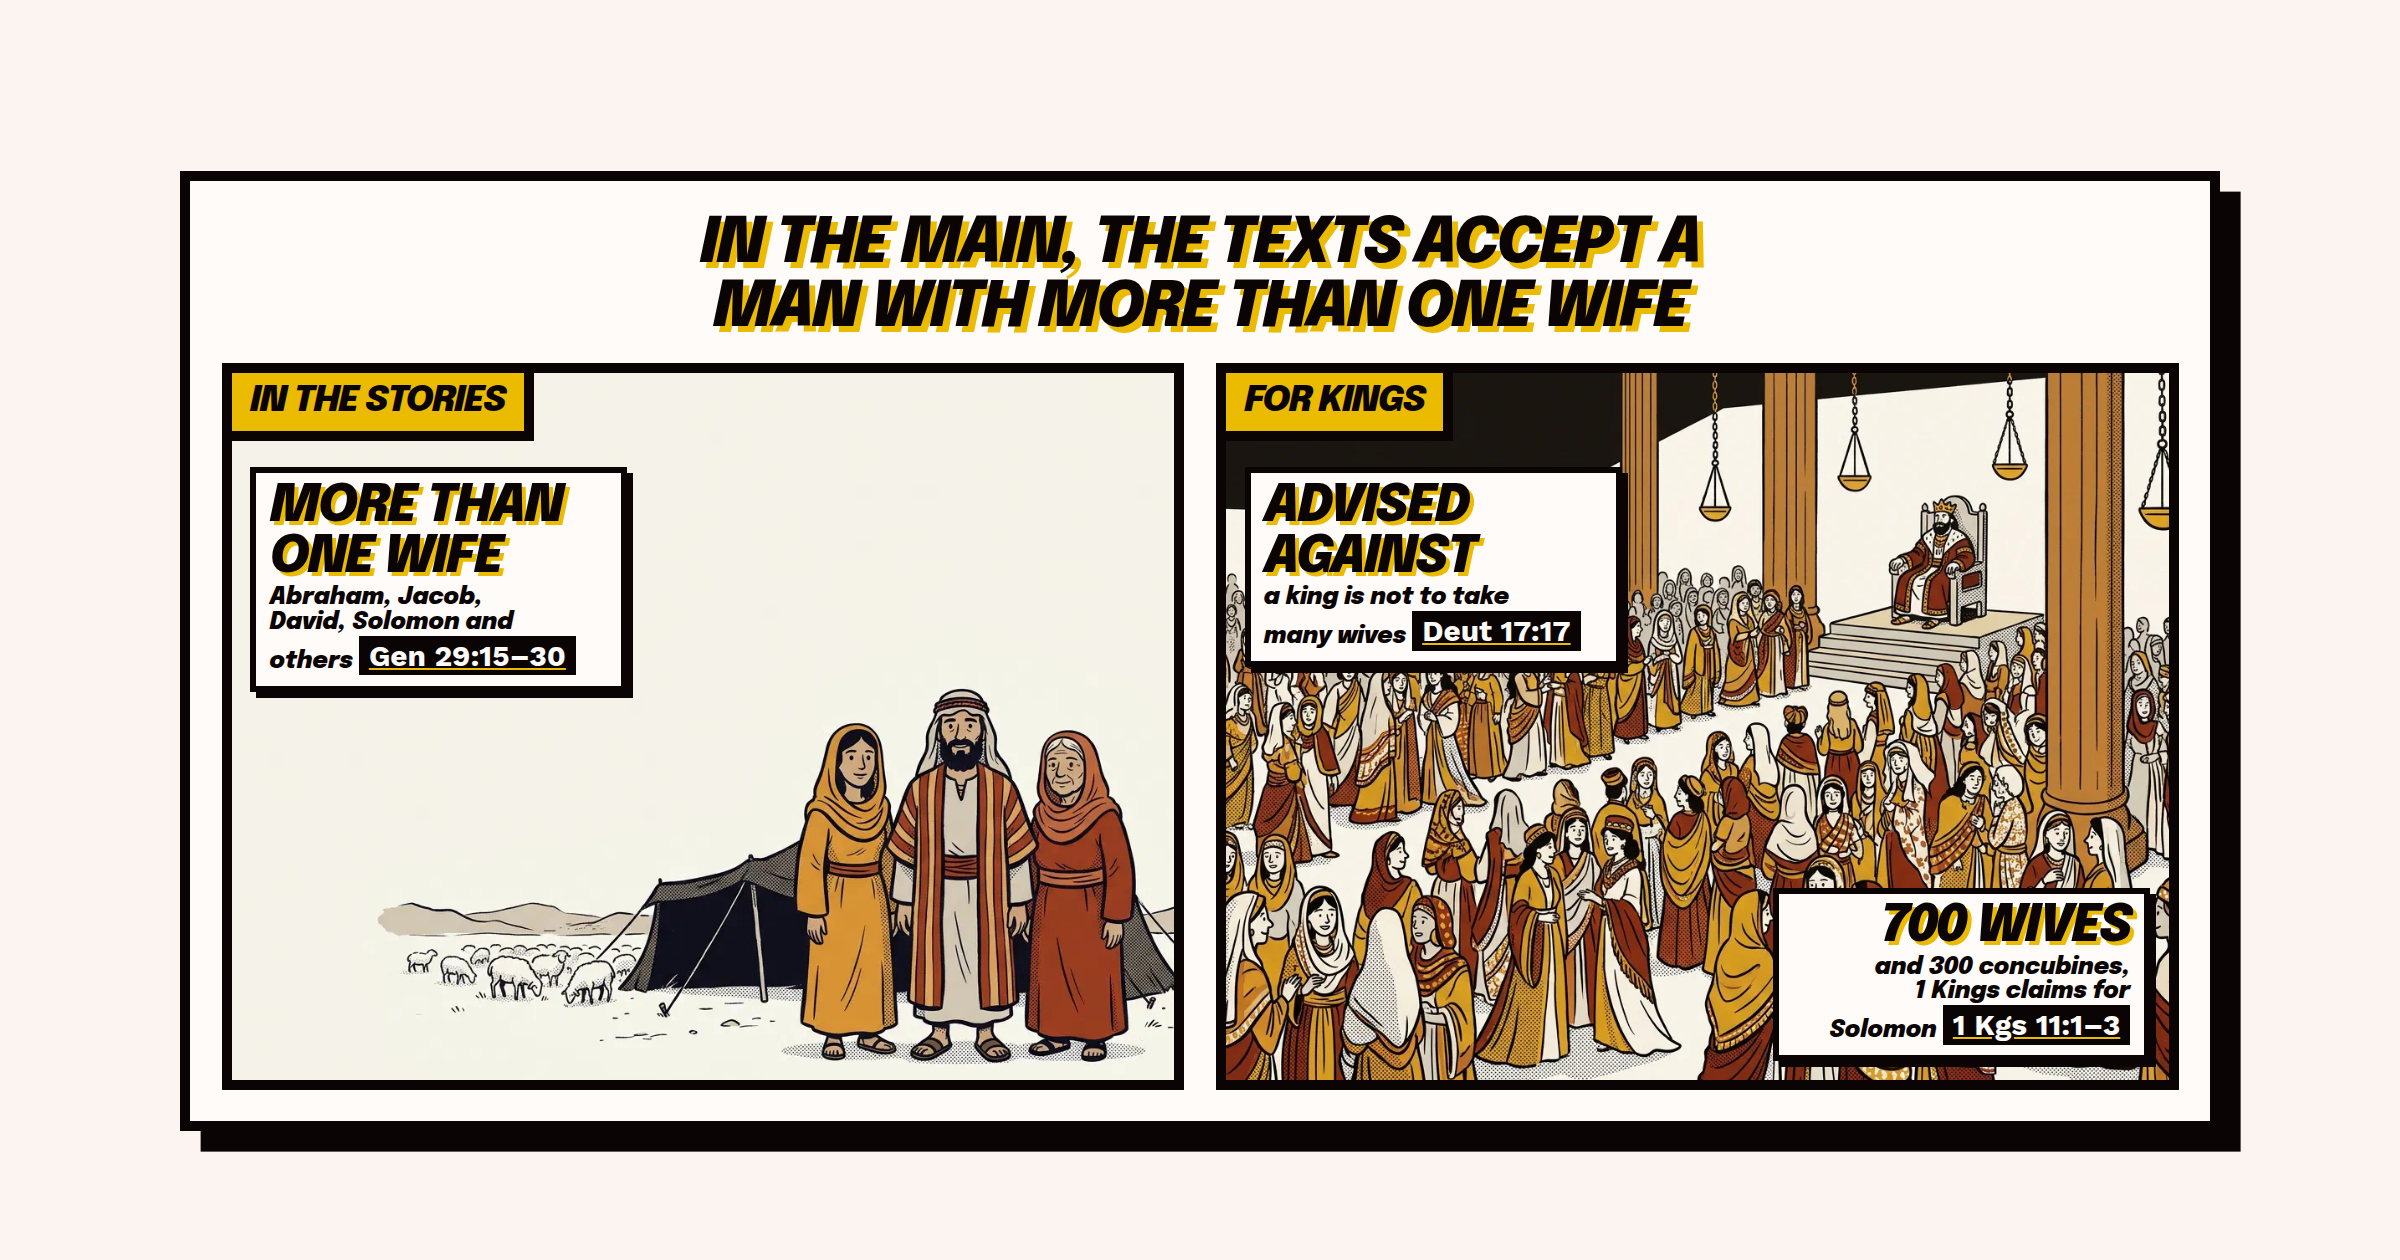
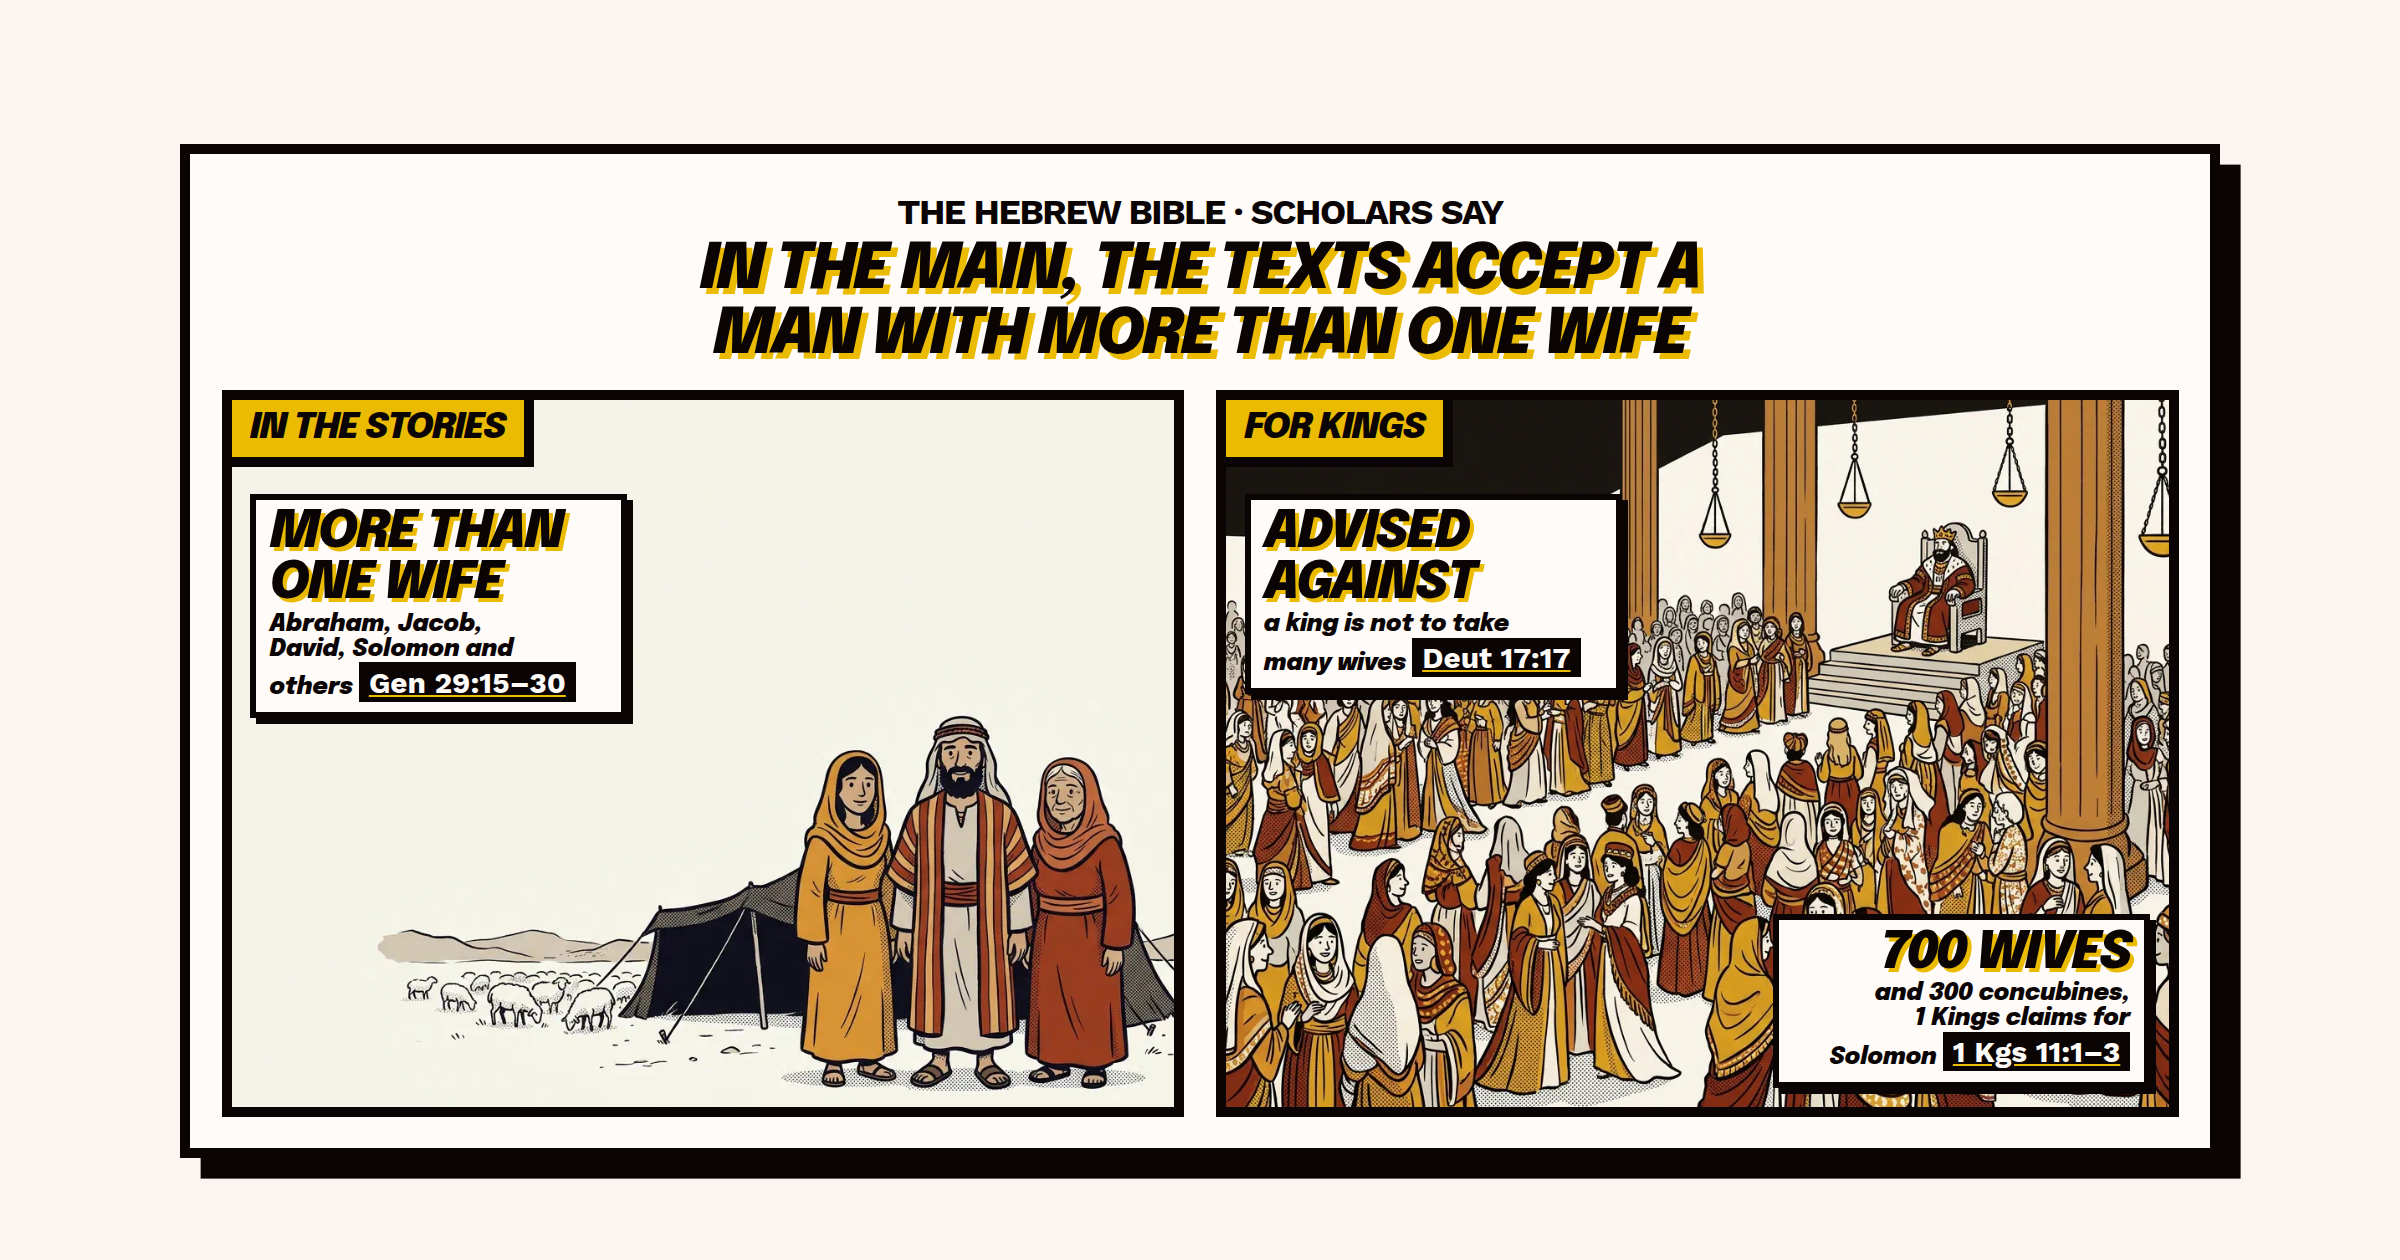
Satan, Hell and Marriage cards keep their "scholars say" kickers
Each card hid the kicker, so the shared image dropped the core claim's
hedge. Same fix as the Abraham, Isaac and Jacob card (1b4fd99d).

diff --git a/hugo/assets/css/scholarship-custom/the-origins-of-hell.css b/hugo/assets/css/scholarship-custom/the-origins-of-hell.css
@@ -250,10 +250,6 @@
   gap: 0;
 }
 
-.scholarship-share:has(#share-card:target) .hell-comic__kicker {
-  display: none;
-}
-
 .scholarship-share:has(#share-card:target) .hell-comic__title {
   font-size: var(--step-2);
 }

diff --git a/hugo/assets/css/scholarship-custom/satan-demons-and-angels.css b/hugo/assets/css/scholarship-custom/satan-demons-and-angels.css
@@ -294,8 +294,7 @@
   gap: 0;
 }
 
-.scholarship-share:has(#share-card:target)
-  :is(.satan-comic__kicker, .satan-comic__key) {
+.scholarship-share:has(#share-card:target) .satan-comic__key {
   display: none;
 }
 

diff --git a/hugo/assets/css/scholarship-custom/marriage-polygamy-and-adultery-in-the-bible.css b/hugo/assets/css/scholarship-custom/marriage-polygamy-and-adultery-in-the-bible.css
@@ -209,8 +209,7 @@
   gap: 0;
 }
 
-.scholarship-share:has(#share-card:target)
-  :is(.mpa-comic__kicker, .mpa-comic__key) {
+.scholarship-share:has(#share-card:target) .mpa-comic__key {
   display: none;
 }
 
